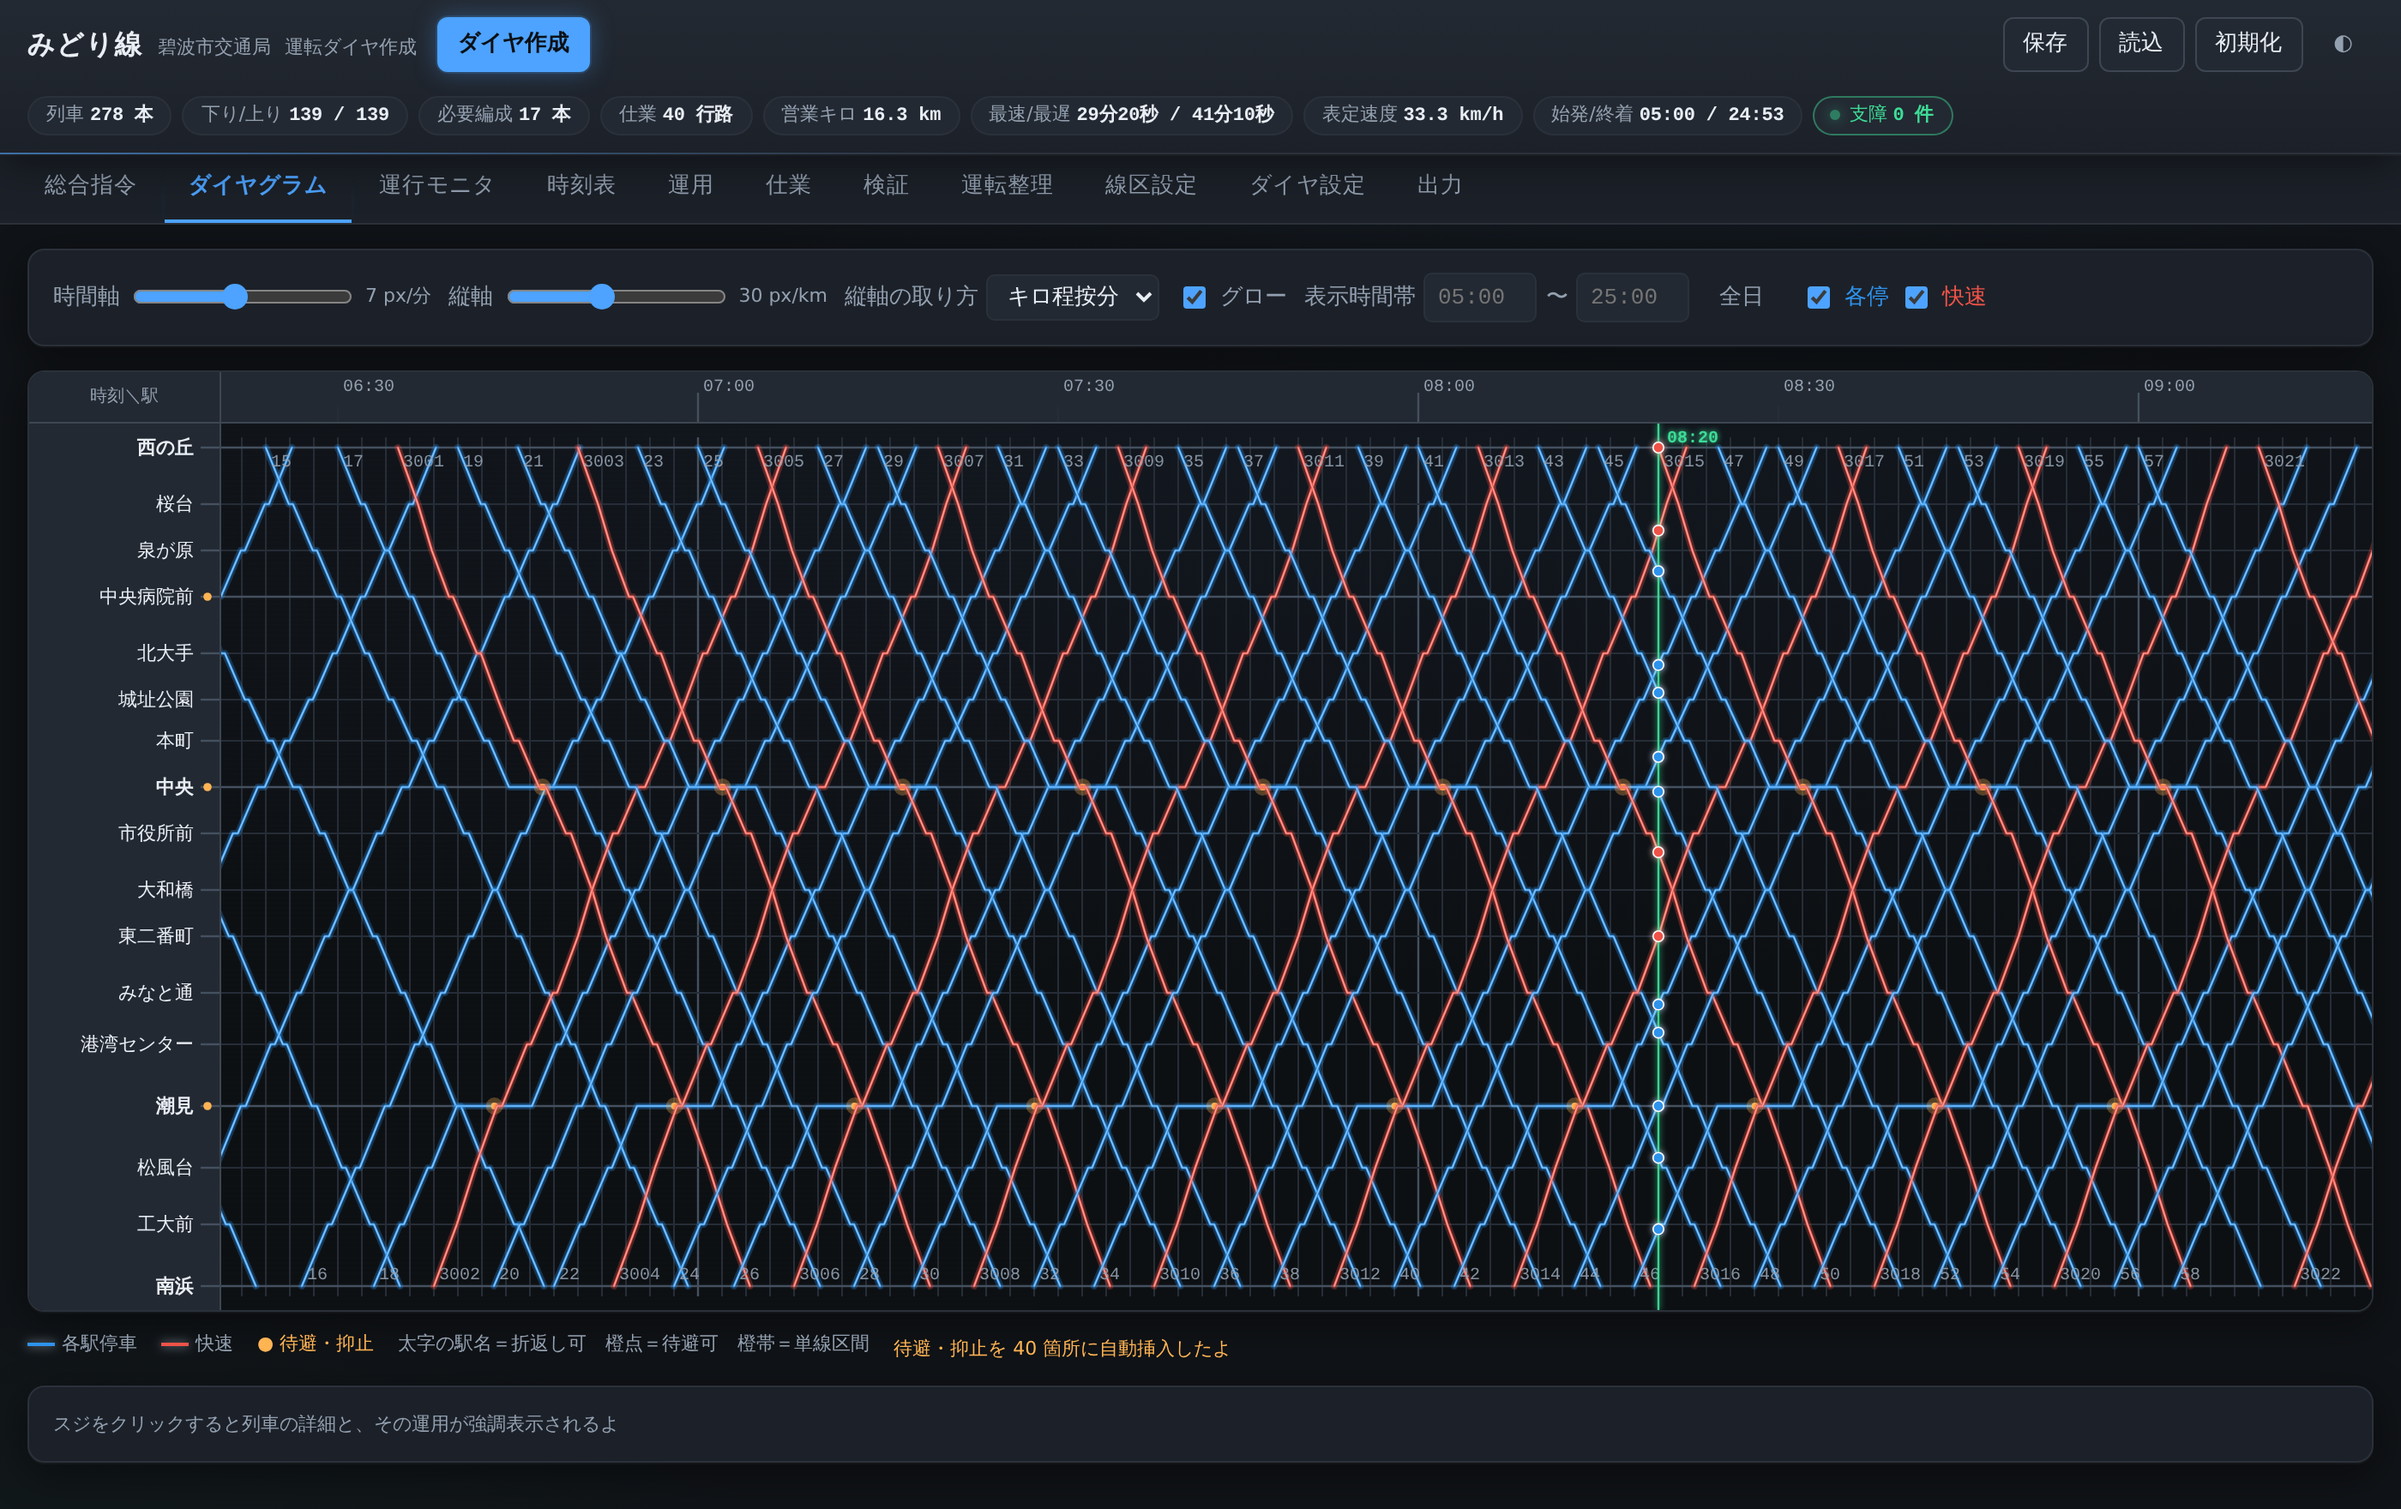
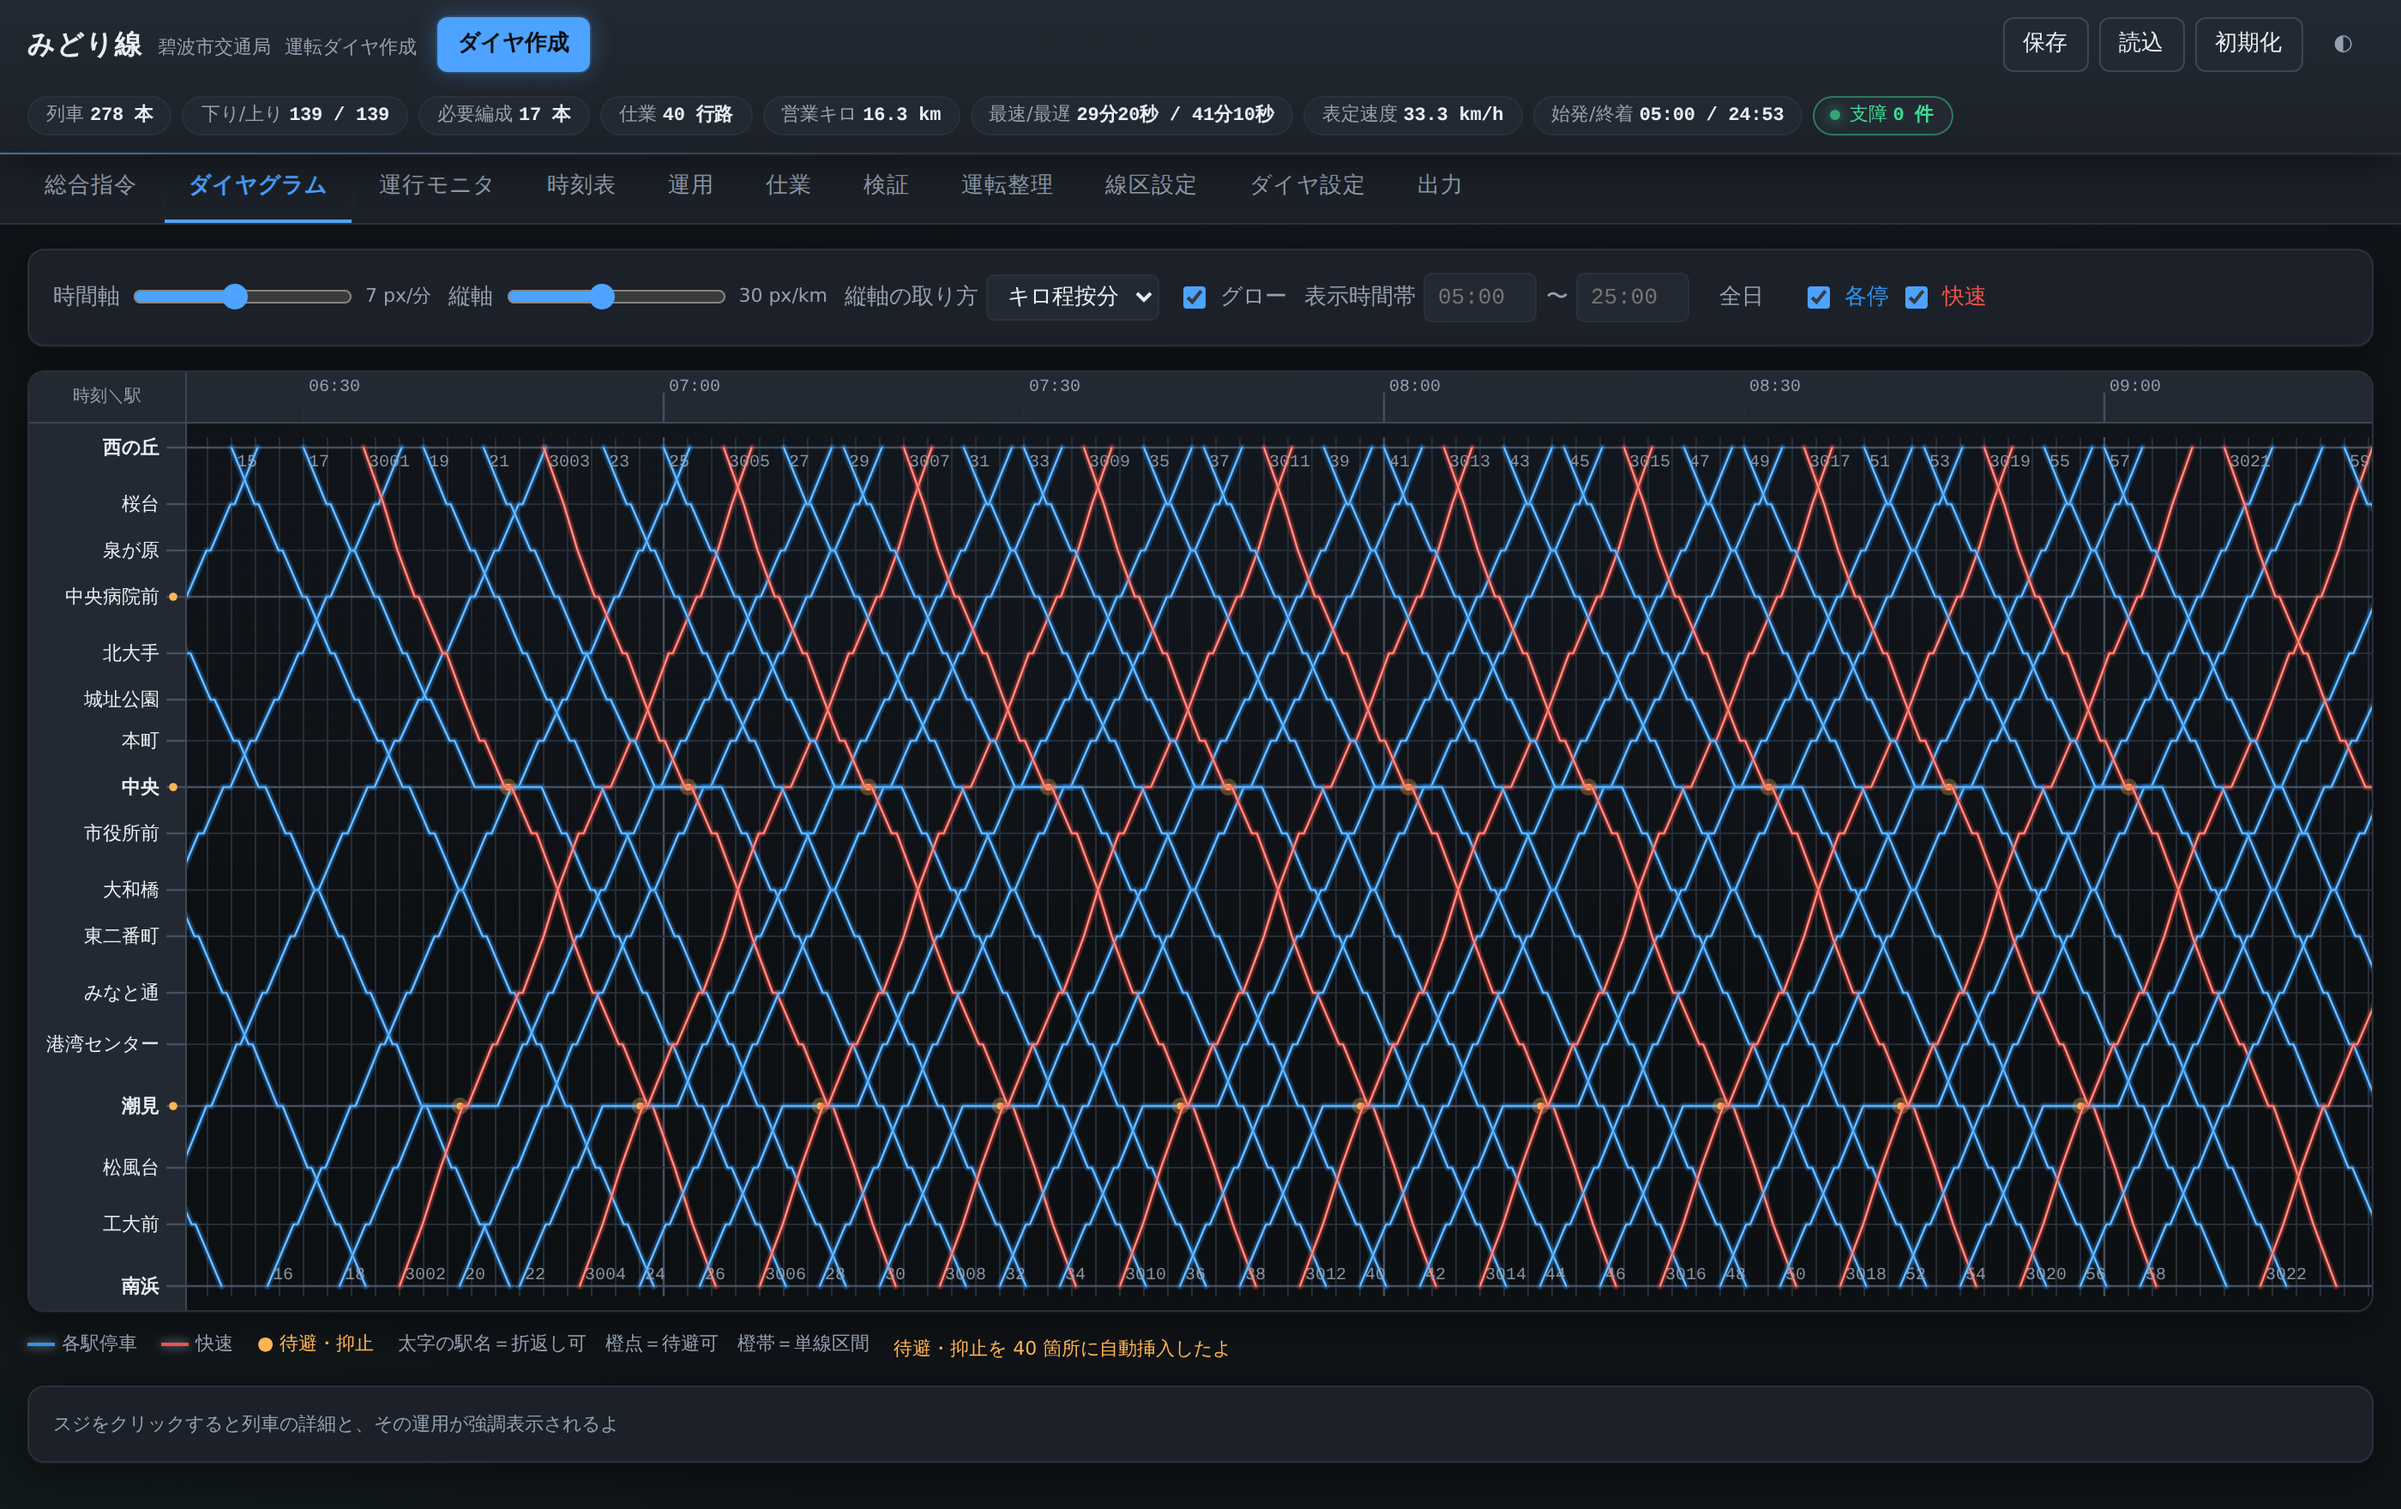
ダイヤグラムの駅名が欠けないようにし、時間軸の原点のずれを直す
駅名
- 7 文字を超える駅名を「…」で切り詰めていたのをやめ、文字幅を実測
  して駅名列の幅を決めるようにした（76〜220px、画面幅の 4 割まで）。
  それでも入らないときだけ字を小さくする（下限 8px）
- 縦軸を縮めて駅名が重なるときは間引く。折返し・待避・車庫のある駅と
  両端は必ず残し、その直前のふつうの駅名を取り下げる
- 駅名にキロ程つきのツールチップを付けた

時間軸の原点
掃引アニメーションのコードが開始時刻と同じ名前のローカル変数
（var t0）を宣言していて、作図面を描いたあとに時間軸の原点を
null や performance.now() の値へ書き換えていた。このため生成直後の
1 回だけ、時刻目盛が 00:00 起点で描かれ、スジの位置と 4 時間半ずれて
いた。変数名を分けて解消。

Claude-Session: https://claude.ai/code/session_01NrrZLaaSReR3jwwi6aUkA3

Changed region(s): [[0.0311, 0.25, 0.9943, 0.875]]

diff --git a/js/ui/diagram.js b/js/ui/diagram.js
@@ -149,10 +149,10 @@
       g.setAttribute('clip-path', 'url(#dg-sweep)');
       var beam = el('line', { x1: 0, y1: 0, x2: 0, y2: H, class: 'sweep-beam' });
       svg.appendChild(beam);
-      var t0 = null, dur = 900;
+      var sweepStart = null, dur = 900;   // ここで t0 を名乗ると時間軸の原点を壊すので別名にする
       var step = function (ts) {
-        if (t0 == null) t0 = ts;
-        var r = Math.min(1, (ts - t0) / dur);
+        if (sweepStart == null) sweepStart = ts;
+        var r = Math.min(1, (ts - sweepStart) / dur);
         var e = 1 - Math.pow(1 - r, 3);
         clipRect.setAttribute('width', (W * e).toFixed(1));
         beam.setAttribute('x1', (W * e).toFixed(1));
@@ -215,17 +215,60 @@
     this.elTime.innerHTML = ''; this.elTime.appendChild(tsvg);
 
     // --- 駅名（左） ---
-    var ssvg = el('svg', { width: 112, height: H });
+    // 文字幅を実測して列の幅を決める。切り詰めず、入らないときだけ字を小さくする。
+    var ssvg = el('svg', { height: H });
+    this.elSt.innerHTML = '';
+    this.elSt.appendChild(ssvg);
+
+    var MIN_GAP = 11;           // これより詰まった駅名は間引く
+    var lastLabelY = -Infinity;
+    var labels = [];
     line.stations.forEach(function (st, i) {
-      ssvg.appendChild(el('line', { x1: 100, y1: ys.y[i], x2: 112, y2: ys.y[i], class: 'st-line major' }));
-      var name = st.name.length > 7 ? st.name.slice(0, 6) + '…' : st.name;
-      ssvg.appendChild(el('text', {
-        x: 96, y: ys.y[i] + 3.5, 'text-anchor': 'end',
+      ssvg.appendChild(el('line', { x1: 0, y1: ys.y[i], x2: 0, y2: ys.y[i], class: 'st-line major', 'data-tick': i }));
+      var keep = st.canTurn || st.depot || st.canOvertake || i === 0 || i === line.stations.length - 1;
+      var tight = ys.y[i] - lastLabelY < MIN_GAP;
+      if (!keep && tight) return;
+      if (keep && tight && labels.length && !labels[labels.length - 1].keep) {
+        // 設備のある駅を優先し、直前のふつうの駅名は取り下げる
+        var prev = labels.pop();
+        prev.t.parentNode.removeChild(prev.t);
+        lastLabelY = labels.length ? ys.y[labels[labels.length - 1].i] : -Infinity;
+      }
+      lastLabelY = ys.y[i];
+      var t = el('text', {
+        x: 0, y: ys.y[i] + 3.5, 'text-anchor': 'end',
         class: 'st-name' + (st.canTurn ? ' turn' : '')
-      }, name));
-      if (st.canOvertake) ssvg.appendChild(el('circle', { cx: 104, cy: ys.y[i], r: 2.4, fill: 'var(--warn)' }));
+      }, st.name);
+      t.appendChild(el('title', {}, st.name + '（' + st.km.toFixed(1) + 'km）'));
+      ssvg.appendChild(t);
+      labels.push({ t: t, st: st, i: i, keep: keep });
     });
-    this.elSt.innerHTML = ''; this.elSt.appendChild(ssvg);
+
+    var maxText = 0;
+    labels.forEach(function (l) { maxText = Math.max(maxText, textWidth(l.t)); });
+    var room = Math.min(220, Math.max(96, Math.floor((self.host.clientWidth || 900) * 0.4)));
+    var GUTTER = 26;            // 目盛と待避マークのぶん
+    var fs = 11;
+    if (maxText + GUTTER > room) {
+      fs = Math.max(8, Math.floor(11 * (room - GUTTER) / maxText));
+      labels.forEach(function (l) { l.t.setAttribute('font-size', fs); });
+      maxText = 0;
+      labels.forEach(function (l) { maxText = Math.max(maxText, textWidth(l.t)); });
+    }
+    var WST = Math.round(Math.max(76, Math.min(room, maxText + GUTTER)));
+
+    ssvg.setAttribute('width', WST);
+    this.host.style.gridTemplateColumns = WST + 'px 1fr';
+    labels.forEach(function (l) { l.t.setAttribute('x', WST - 16); });
+    var ticks = ssvg.querySelectorAll('[data-tick]');
+    for (var k = 0; k < ticks.length; k++) {
+      ticks[k].setAttribute('x1', WST - 12);
+      ticks[k].setAttribute('x2', WST);
+    }
+    line.stations.forEach(function (st, i) {
+      if (!st.canOvertake) return;
+      ssvg.appendChild(el('circle', { cx: WST - 8, cy: ys.y[i], r: 2.4, fill: 'var(--warn)' }));
+    });
 
     this.bindPointer(typeMap);
     this.nowG = null; this.dotMap = {};
@@ -372,6 +415,11 @@
     var target = this.x(sec) - this.elPlot.clientWidth / 2;
     this.elPlot.scrollLeft = Math.max(0, target);
   };
+
+  /** SVG テキストの実描画幅 */
+  function textWidth(t) {
+    try { return t.getComputedTextLength(); } catch (e) { return (t.textContent || '').length * 11; }
+  }
 
   function prefersReducedMotion() {
     return window.matchMedia && window.matchMedia('(prefers-reduced-motion: reduce)').matches;
